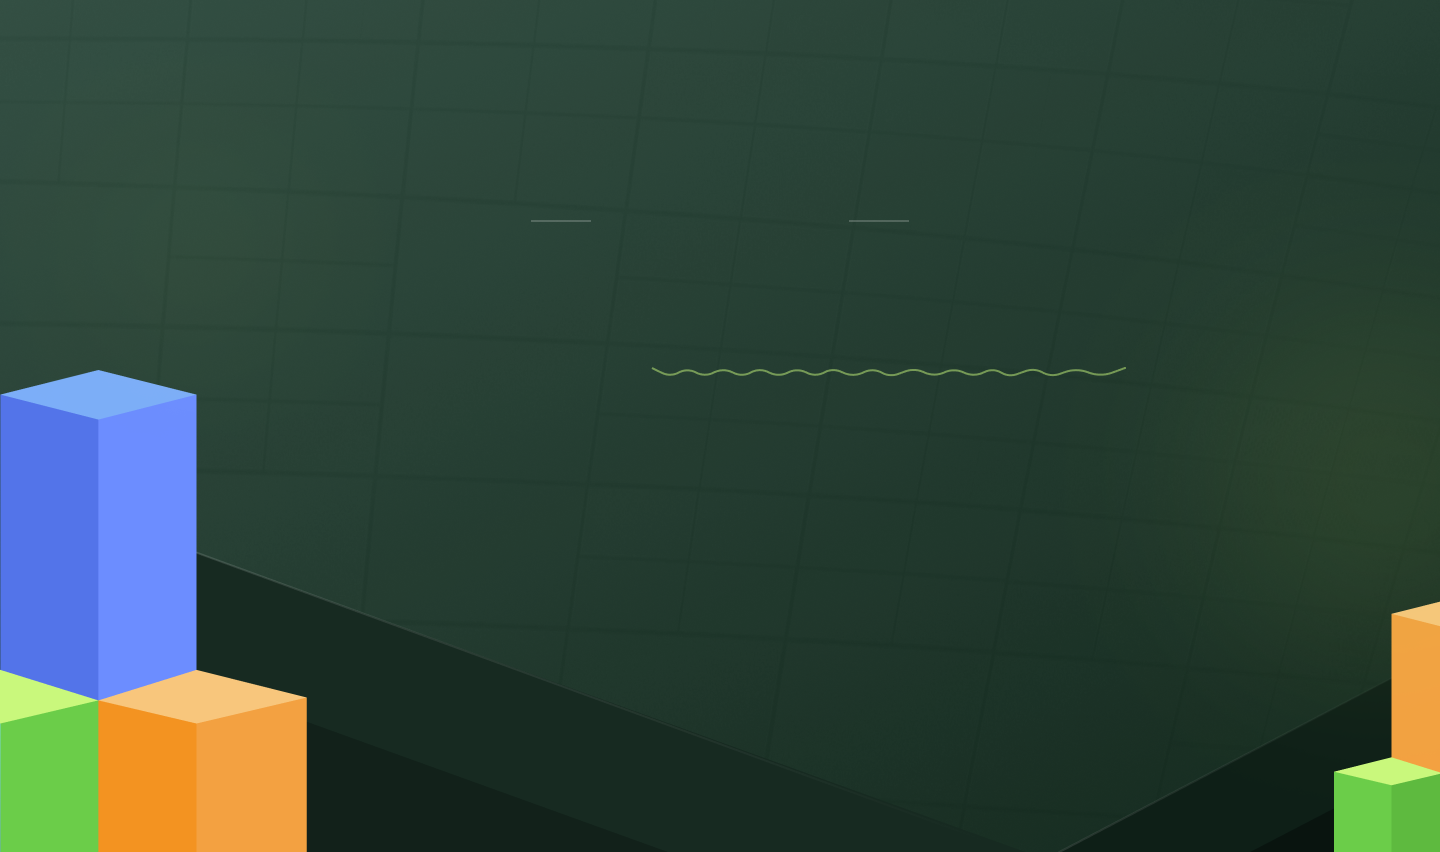
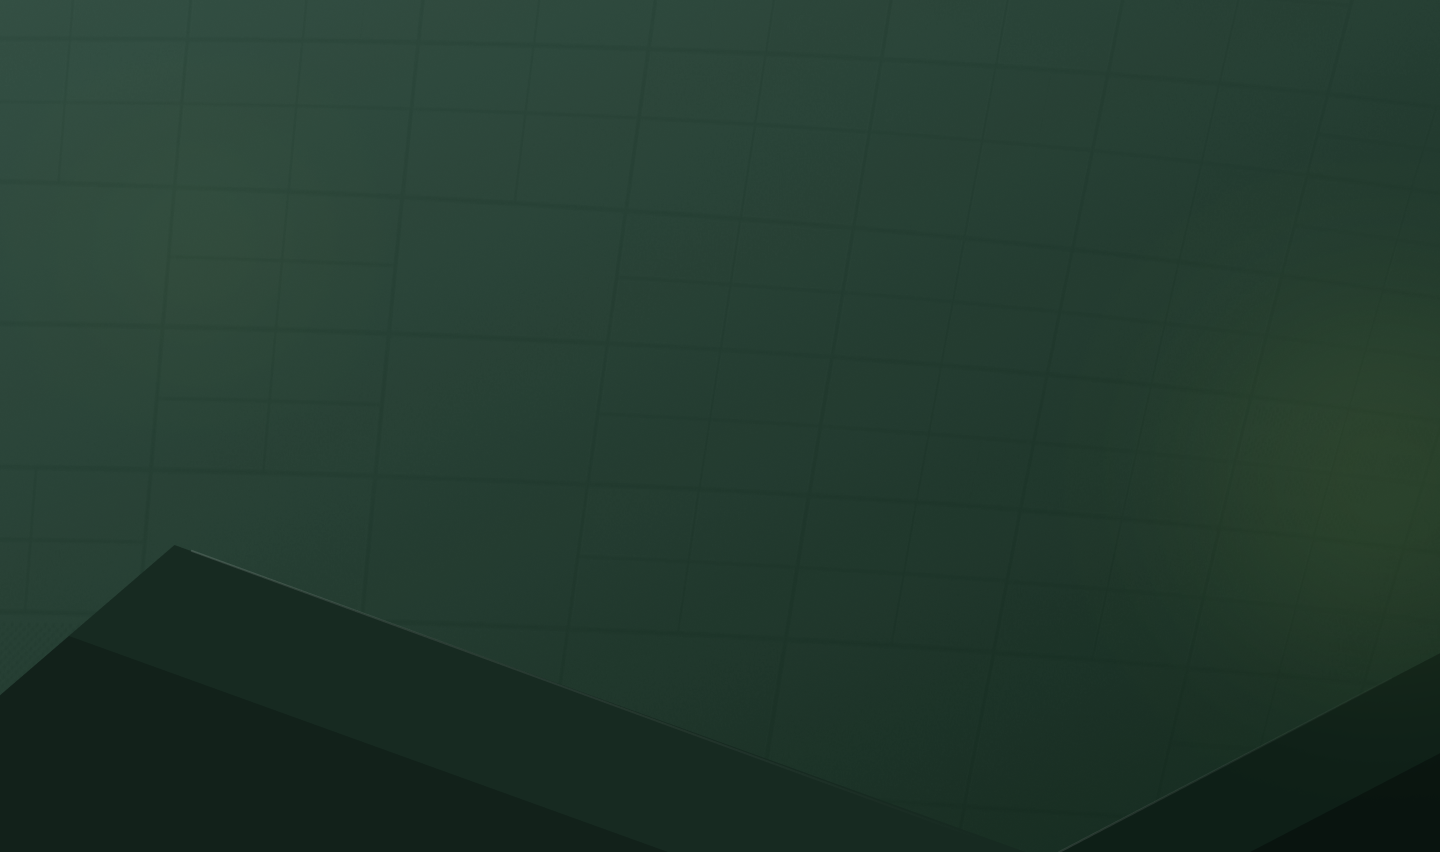
Header

Changed region(s): [[0.0, 0.4272, 0.2188, 1.0], [0.9062, 0.7019, 1.0, 1.0], [0.6562, 0.4272, 0.6875, 0.4577]]

diff --git a/index.html b/index.html
@@ -9,8 +9,7 @@
     <link rel="stylesheet" href="./css/style.css">
 </head>
 <body>
-    <header>
-           <section class="header">
+    <header class="header">
                <div class="container">
                    <div class="navbar">
                        <div class="logo">
@@ -18,14 +17,11 @@
                                <source srcset="./image/header/logo/logo.png 1x, ./image/header/logo/logo@2x.png 2x">
                                <img src="./image/header/logo/logo.png">
                            </picture>
-                           <span>
-                         markethink
-                      </span>
+                           <span>markethink</span>
                        </div>
 
                        <div class="menu">
-                           <ul class="menu__list">
-                               <li class="menu__item">
+                           <ul class="menu__list"><li class="menu__item">
                                    <a class="menu__link" href="#">Features</a>
                                </li>
                                <li class="menu__item">
@@ -47,15 +43,10 @@
                </div>
 
                <div class="header__information">
-                    <span class="header__text-3xl">
-                       The Best
-                   </span>
-                   <h1>
-                       Digital Marketing
-                   </h1>
-                   <span class="header__text-lg">
-                       Completely synergize resource taxing relationships via premier niche markets. Professionally cultivate one-to-one customer
-                   </span>
+                    <span class="header__text-3xl">The Best</span>
+
+                       <h1>Digital <span class="wavy">Marketing</span> </h1>
+                   <span class="header__text-lg">Completely synergize resource taxing relationships via premier niche markets. Professionally cultivate one-to-one customer</span>
 
                    <div class="get-started">
                        <button class="button__start">
@@ -64,16 +55,19 @@
                    </div>
                </div>
 
+            <div class="figure-left">
+                <picture>
+                    <img src="./image/header/figure/header-figure-left.png" alt="фигура">
+                </picture>
+            </div>
+            <div class="figure-right">
+                <picture>
+                    <img src="./image/header/figure/header-figure-right.png" alt="фигура">
+                </picture>
+            </div>
 
-           </section>
+
+
     </header>
-
-    <main>
-
-    </main>
-
-    <footer>
-
-    </footer>
 </body>
 </html>

diff --git a/css/style.css b/css/style.css
@@ -41,17 +41,26 @@ h1{
 /*
 Header
 */
+
+.decore{
+    text-decoration: underline wavy #769a56;
+}
+
 .container{
     width: 100%;
     max-width: 1170px;
     margin: 0 auto;
 }
 
+
 .header {
     background-image: url(/image/header/hero.png);
     background-repeat: no-repeat;
-}
+    background-size: cover;
 
+    position: relative;
+    overflow: hidden;
+}
 .navbar{
     padding-top: 40px;
 
@@ -105,6 +114,36 @@ Header
     font-size: var(--text-3xl);
     color: var(--white);
     opacity: 0.8;
+
+    display: flex;
+    column-gap: 50px;
+    row-gap: 50%;
+
+    align-items: center;
+}
+.header__text-3xl:after{
+    content: "";
+
+    width: 60px;
+    height: 0;
+
+    display: flex;
+
+
+    opacity: 0.4;
+    border: 1px solid #FFFFFF;
+
+}
+.header__text-3xl:before{
+    content: "";
+
+    width: 60px;
+    height: 0;
+
+    display: flex;
+
+    opacity: 0.4;
+    border: 1px solid #FFFFFF;
 }
 
 .header__text-lg{
@@ -113,15 +152,35 @@ Header
     width: 686px;
     text-align: center;
     opacity: 0.6;
+    line-height: 40px;
+}
+
+.wavy{
+    position: relative;
+    overflow: hidden;
+}
+.wavy:before{
+    content: "";
+
+    width: 100%;
+    height: 10px;
+
+    position: absolute;
+    bottom: 0;
+    background: no-repeat center / cover url("../image/header/wavy.png");
+
 }
 
 .button__start{
     padding: 27px 62px;
 
+    border: #FFFFFF 1px solid;
     background: linear-gradient(328.68deg, #98AA28 13.03%, #D6FF7E 120.61%);
-    box-shadow: 0px 34px 50px rgba(7, 63, 67, 0.07);
+    box-shadow: 0 34px 50px rgba(7, 63, 67, 0.07);
     border-radius: 192px;
     color: var(--white);
+
+    cursor: pointer;
 }
 
 .get-started{
@@ -130,4 +189,17 @@ Header
 
     display: flex;
     justify-content: center;
+
+}
+
+
+.figure-left{
+    position: absolute;
+    left: 0;
+    bottom: -28px;
+}
+.figure-right{
+    position: absolute;
+    right: 0;
+    bottom: -20px;
 }
